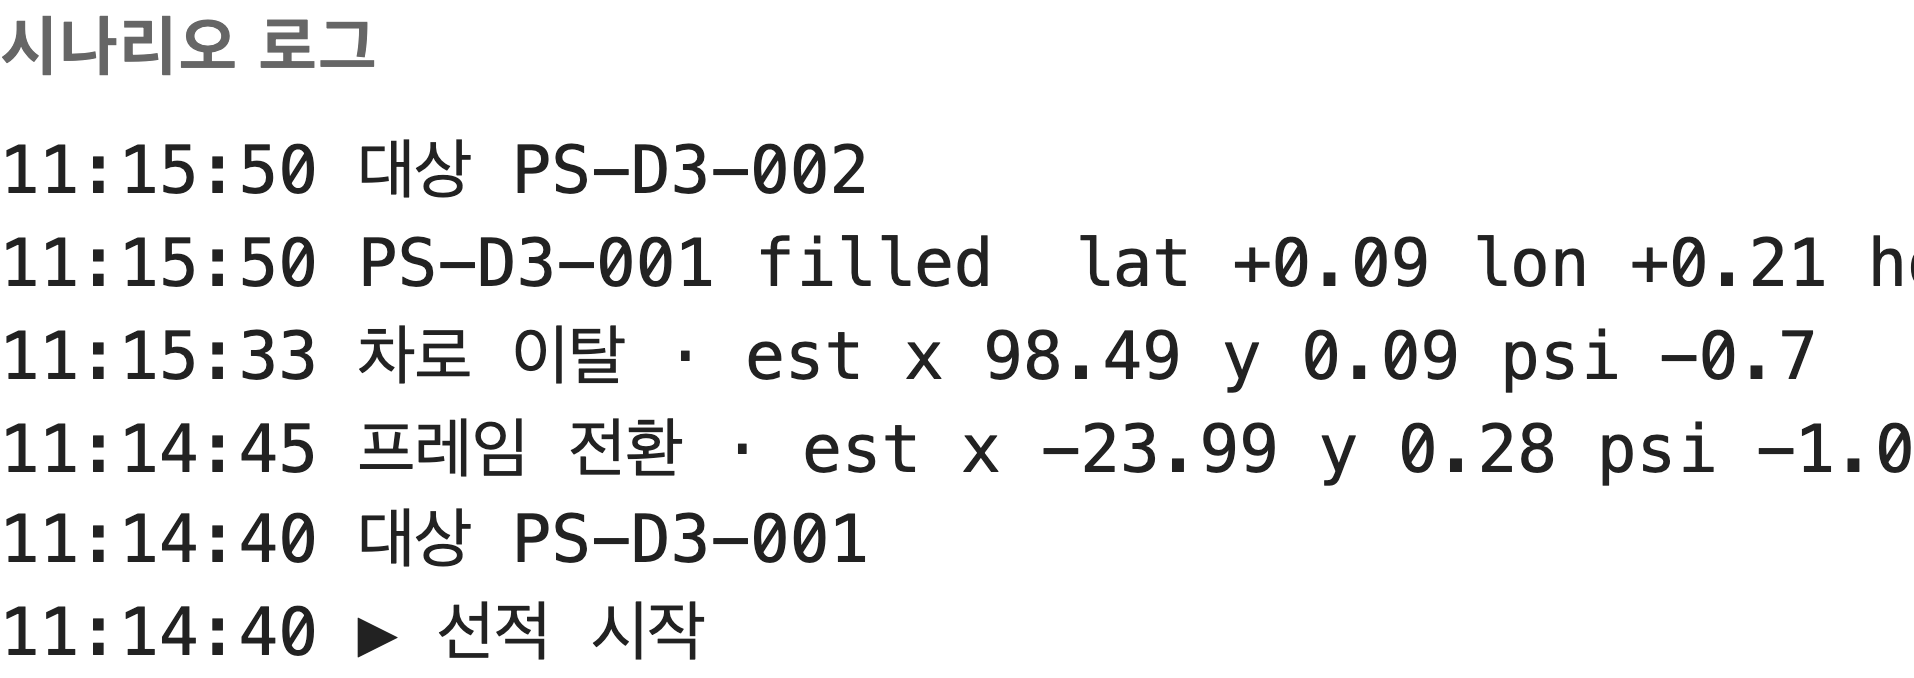
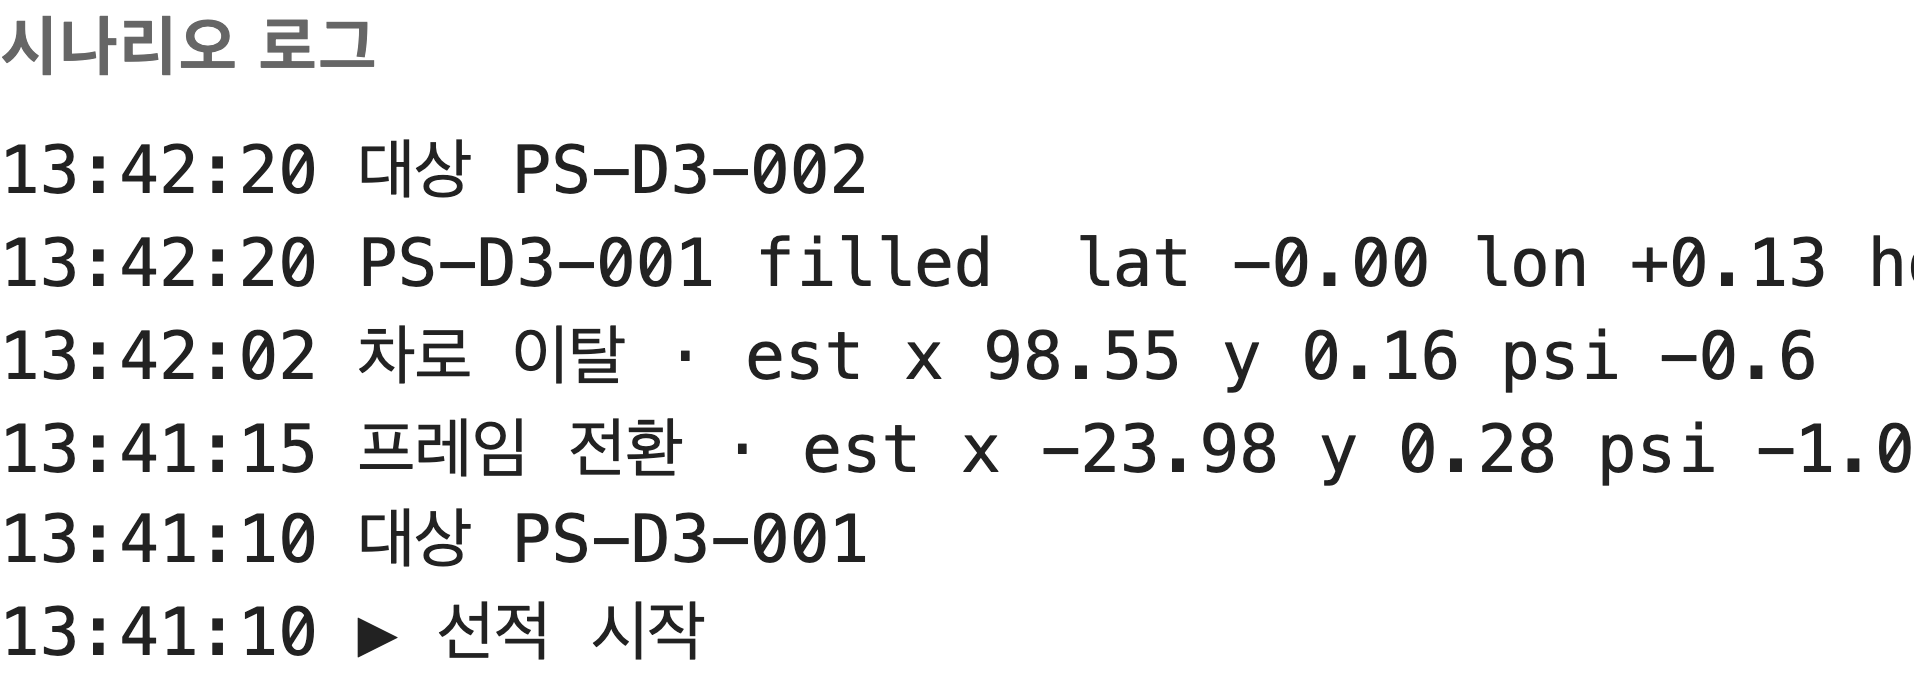
fix(docs): select the capture dataset by URL instead of intercepting requests for it
The committed capture script pointed the app at roro-demo-cap by rewriting
CDP Fetch requests in flight, so every full-frame figure's top bar printed
the literal app constant "roro-demo-01" while the pixels underneath were
actually roro-demo-cap -- a label that disagreed with the data.

editor.ts now reads an optional ?ds= query param at store-init time (falling
back to roro-demo-01, so the normal single-dataset app is unaffected), and
capture.mjs drops the Fetch-domain interception entirely and just navigates
to ?ds=roro-demo-cap. The figures now show the dataset they're actually of.
Re-captured all docs/img/*.png; two consecutive runs produce identical
stdout (the reproducible stream) and differ only in the parked-slot stderr
values, which is the sensor-noise-per-render-frame behaviour already
documented in the scripts.

diff --git a/web/src/store/editor.ts b/web/src/store/editor.ts
@@ -98,7 +98,12 @@ async function refreshVersion(get: () => EditorState) {
 }
 
 export const useEditorStore = create<EditorState>()(persist((set, get) => ({
-  datasetId: "roro-demo-01", dataset: null, decks: [], features: {}, drafts: {}, selectedId: null, deckFilter: "all", mode: "edit",
+  // ?ds= exists for scripts/capture.sh: the figures in the docs have to come from a dataset the script can
+  // drop and re-seed on every run, and roro-demo-01 is the one people actually edit. No query string is the
+  // normal case and lands exactly where it always did. globalThis.location, not location: this initializer
+  // runs at import time and the vitest environment is "node", where there is no location at all.
+  datasetId: new URLSearchParams(globalThis.location?.search ?? "").get("ds") ?? "roro-demo-01",
+  dataset: null, decks: [], features: {}, drafts: {}, selectedId: null, deckFilter: "all", mode: "edit",
   pose: null, ramp: null, localization: null, error: null, slotGen: {}, scenarioLog: [],
   coverage: null, coverageMode: "load",
   // seeded with the API defaults: an empty object would leave the sliders at their minimum while the server
